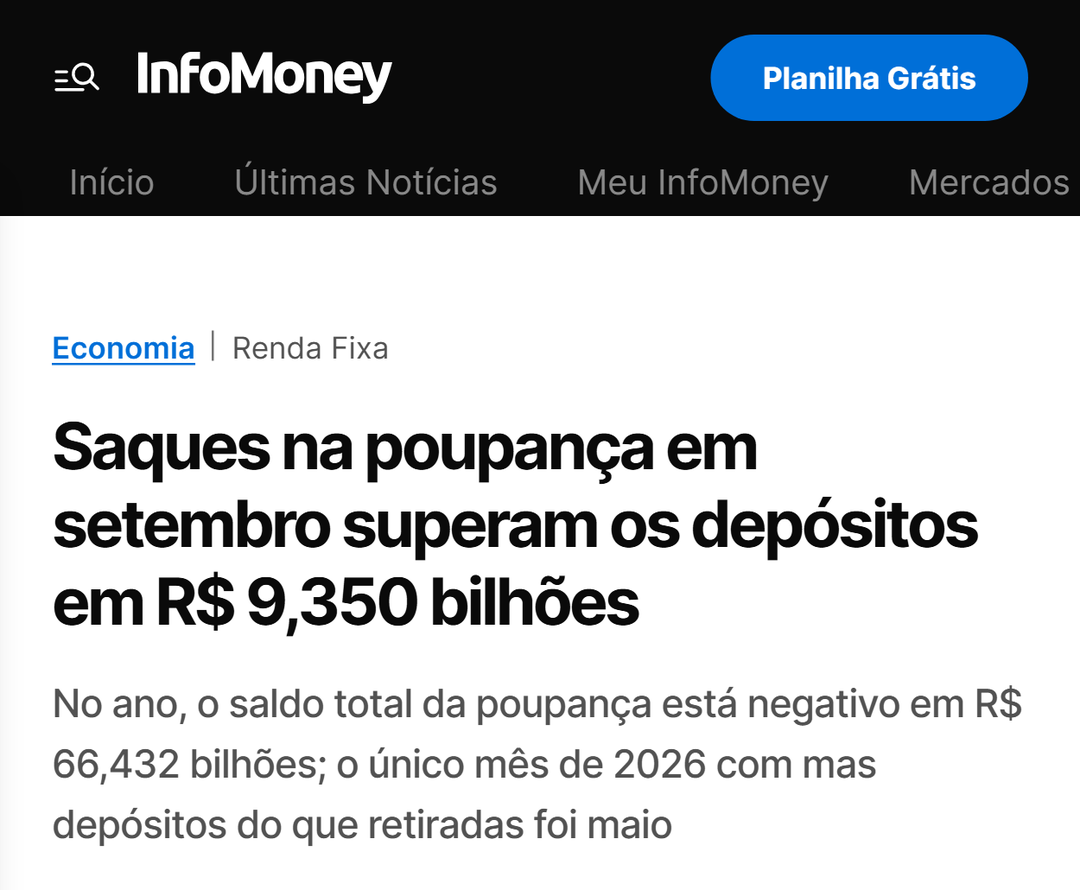
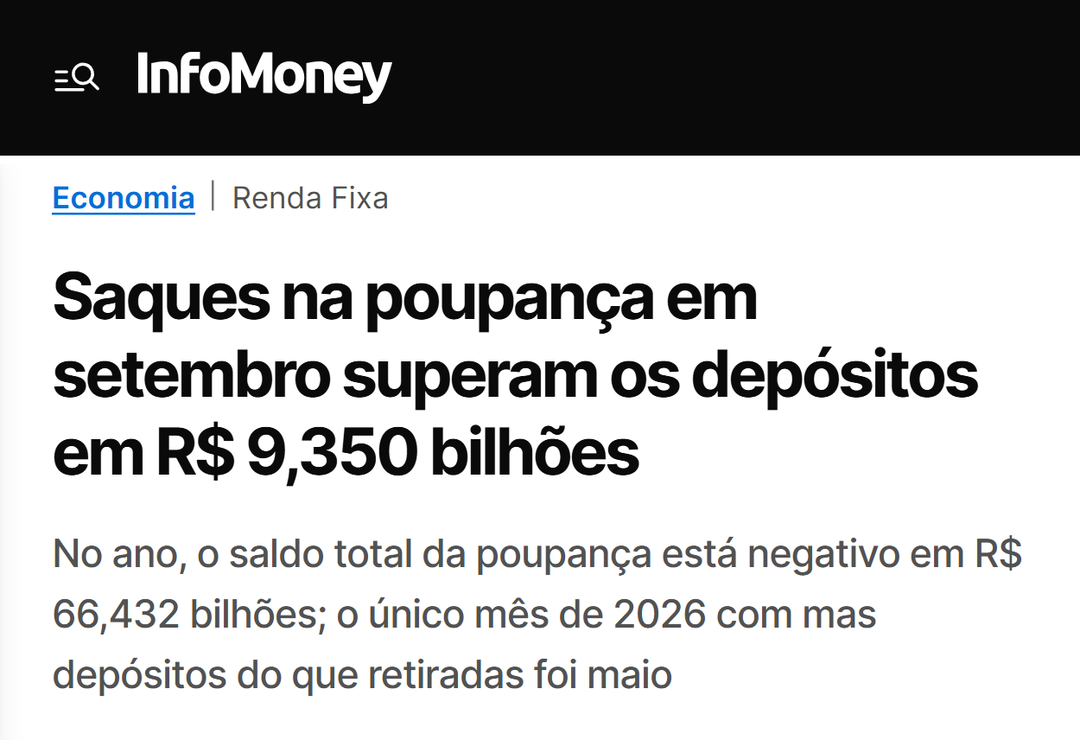
Atualiza o site

diff --git a/render.js b/render.js
@@ -620,19 +620,30 @@
     _lay(ctx, el) {
       const w = el.w ?? LARG_UTIL, pad = 26, tam = el.tam ?? 42, lh = 1.22;
       ctx.font = `400 ${tam}px ${SERIFA}`;
-      const linhas = [];
-      let atual = '';
-      for (const p of String(el.texto || '').split(/\s+/).filter(Boolean)) {
-        const t = atual ? atual + ' ' + p : p;
-        if (atual && ctx.measureText(t).width > w - 2 * pad) { linhas.push(atual); atual = p; } else atual = t;
+      const linhas = [], cabe = w - 2 * pad;
+      // \n quebra a linha; "R$ 104" não se separa (colarNumeros usa espaço inseparável, por isso só o espaço comum divide)
+      for (const par of colarNumeros(el.texto).split('\n')) {
+        let atual = '';
+        for (let p of par.split(/[ \t]+/).filter(Boolean)) {
+          while (ctx.measureText(p).width > cabe && p.length > 1) {   // palavra maior que a caixa: parte, sem vazar
+            if (atual) { linhas.push(atual); atual = ''; }
+            let k = p.length - 1;
+            while (k > 1 && ctx.measureText(p.slice(0, k)).width > cabe) k--;
+            linhas.push(p.slice(0, k)); p = p.slice(k);
+          }
+          const t = atual ? atual + ' ' + p : p;
+          if (atual && ctx.measureText(t).width > cabe) { linhas.push(atual); atual = p; } else atual = t;
+        }
+        if (atual) linhas.push(atual);
       }
-      if (atual) linhas.push(atual);
+      if (!linhas.length) return { w, larg: 0, pad, tam, lh, linhas, h: 0 };   // sem texto: nada de caixinha solta
       const larg = Math.min(w, Math.max(...linhas.map((l) => ctx.measureText(l).width), 0) + 2 * pad);
       return { w, larg, pad, tam, lh, linhas, h: linhas.length * tam * lh + 2 * pad - tam * (lh - 1) };
     },
     medir(ctx, el) { return this._lay(ctx, el).h; },
     desenhar(ctx, el) {
       const L = this._lay(ctx, el), x0 = (el.x ?? MARGEM) + (L.w - L.larg) / 2;
+      if (!L.linhas.length) return;
       ctx.save();
       ctx.fillStyle = '#ffffff'; retRedondo(ctx, x0, el.y, L.larg, L.h, 8); ctx.fill();
       ctx.fillStyle = '#111111'; ctx.font = `400 ${L.tam}px ${SERIFA}`; ctx.textAlign = 'center'; ctx.textBaseline = 'top';
@@ -961,7 +972,8 @@
     const limpo = (t) => String(t || '').replace(/\*\*|==/g, '').replace(/\s+/g, ' ').trim();
     const partes = [];
     for (const e of (slide && slide.elementos) || []) {
-      if (e.tipo === 'texto') partes.push(limpo(e.texto));
+      if (e.tipo === 'texto' || e.tipo === 'caixa_story') partes.push(limpo(e.texto));
+      else if (e.tipo === 'imagem') partes.push(e.alt ? limpo(e.alt) : 'Imagem');
       else if (e.tipo === 'noticia') partes.push(`Notícia, ${limpo(e.veiculo)}: ${limpo(e.manchete)}. ${limpo(e.linhaFina)}`);
       else if (e.tipo === 'manchetes') (e.itens || []).forEach((m) => partes.push(`${limpo(m.veiculo)}: ${limpo(m.manchete)}`));
       else if (e.tipo === 'citacao') partes.push(`${(e.citacoes || []).map(limpo).join(' ')} (${limpo(e.autor)})`);
